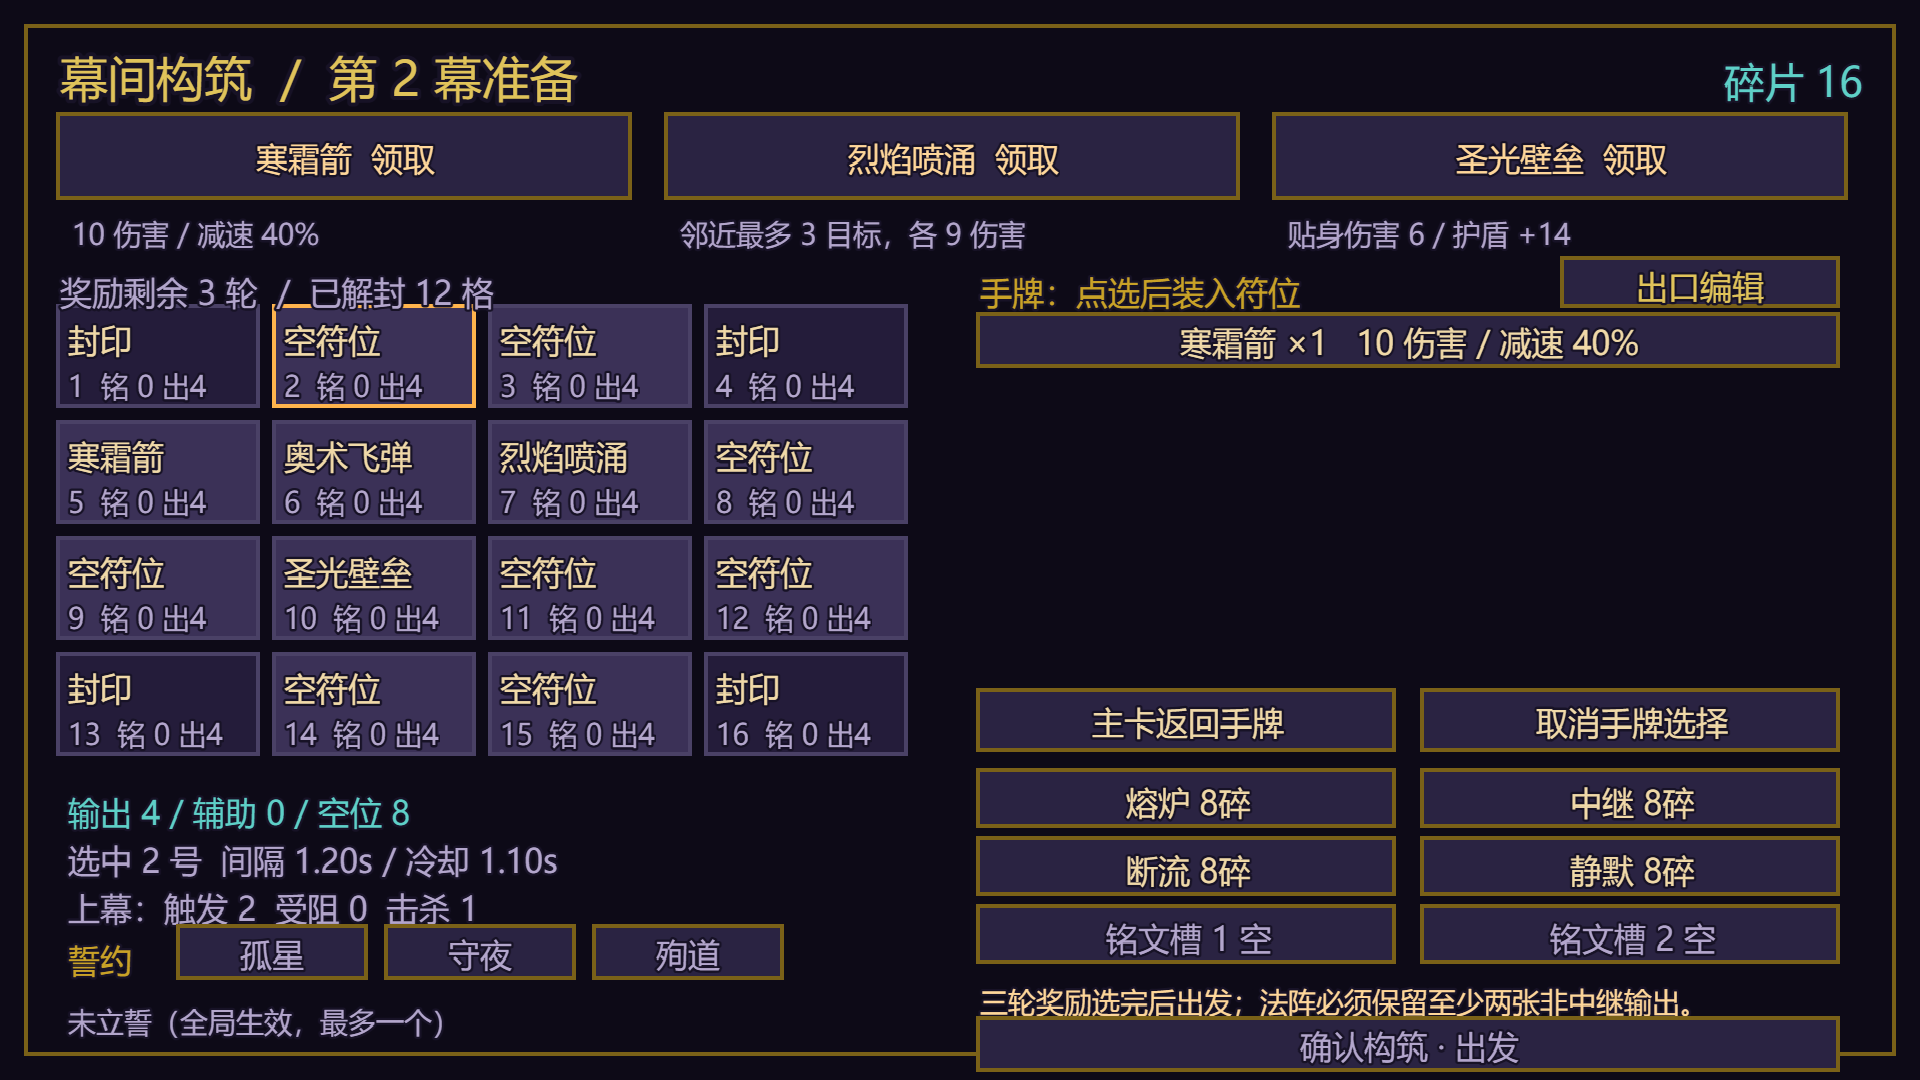
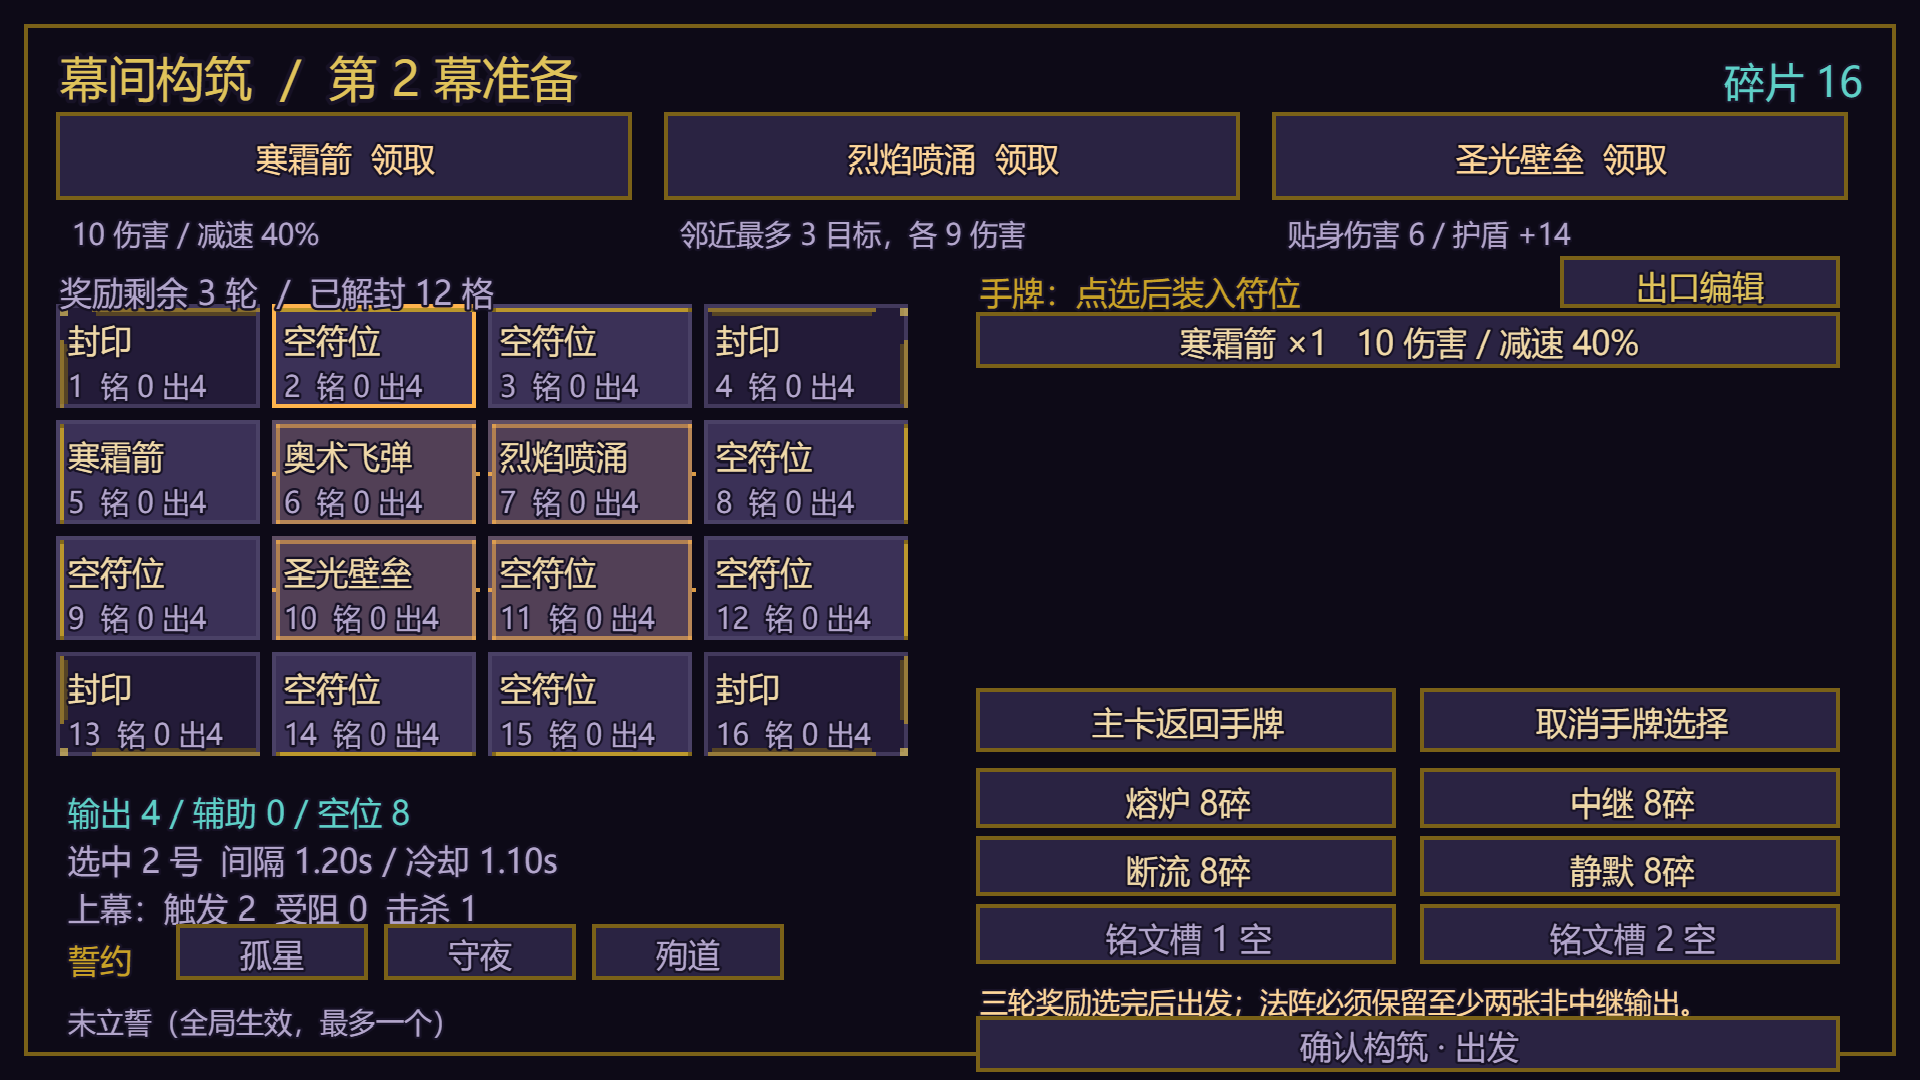
feat: 方阵按区位分三种装饰（角落护角/边上围栏/中心符文）

diff --git a/src/ui/board-decor.js b/src/ui/board-decor.js
@@ -1,0 +1,122 @@
+// 方阵格的区位分类与装饰计划（纯几何，不引用 Phaser，便于单测）。
+// 16 格按位置分三种：角落 4 格、边 8 格、中心 4 格，装饰各不相同：
+//   角落：黄铜护角（两条外边各一段直角包边）+ 一颗铆钉 + 略暗的石面，读作“承重的基座”
+//   边上：单条黄铜栏（只在外侧一边）+ 两端小钉，读作“围栏/门槛”
+//   中心：符文淡染 + 两侧刻点，读作“祭坛核心”，不压符印
+
+import { toRC } from '../logic/grid.js';
+
+export const ZONE = Object.freeze({ CORNER: 'corner', EDGE: 'edge', CENTER: 'center' });
+
+// 非法 id 返回 null，调用方据此跳过装饰而不是猜一个默认值。
+export function cellZone(id) {
+  if (!Number.isInteger(id) || id < 0 || id > 15) return null;
+  const { r, c } = toRC(id);
+  const edgeRow = r === 0 || r === 3;
+  const edgeCol = c === 0 || c === 3;
+  if (edgeRow && edgeCol) return ZONE.CORNER;
+  if (edgeRow || edgeCol) return ZONE.EDGE;
+  return ZONE.CENTER;
+}
+
+// 哪几条边朝向盘面外侧；中心格四条边全在里面，所以都是 false。
+export function outerSides(id) {
+  const zone = cellZone(id);
+  if (!zone) return null;
+  const { r, c } = toRC(id);
+  return {
+    top: r === 0,
+    bottom: r === 3,
+    left: c === 0,
+    right: c === 3,
+    any: r === 0 || r === 3 || c === 0 || c === 3,
+  };
+}
+
+// 把四边形各边向内收进 inset 像素，得到贴着内壁的刻线路径。
+export function insetEdges(quad, inset = 1) {
+  const [tl, tr, br, bl] = quad;
+  return {
+    top: [{ x: tl.x + inset, y: tl.y + inset }, { x: tr.x - inset, y: tr.y + inset }],
+    bottom: [{ x: bl.x + inset, y: bl.y - inset }, { x: br.x - inset, y: br.y - inset }],
+    left: [{ x: tl.x + inset, y: tl.y + inset }, { x: bl.x + inset, y: bl.y - inset }],
+    right: [{ x: tr.x - inset, y: tr.y + inset }, { x: br.x - inset, y: br.y - inset }],
+  };
+}
+
+const lerp = (a, b, t) => ({ x: a.x + (b.x - a.x) * t, y: a.y + (b.y - a.y) * t });
+
+// 生成该格的装饰计划：只描述“画什么”，由调用方用像素 API 落地。
+// opts.inset / arm / stud 可让大盘面（幕间）用更大刻度复用同一份规则。
+export function decoratePlan(id, quad, opts = {}) {
+  const zone = cellZone(id);
+  if (!zone || !Array.isArray(quad) || quad.length !== 4) return null;
+  const inset = opts.inset ?? 1;
+  const arm = opts.arm ?? 3;
+  const sides = outerSides(id);
+  const edges = insetEdges(quad, inset);
+  const lines = [];
+  const dots = [];
+
+  if (zone === ZONE.CENTER) {
+    // 中心：不碰外缘（那是角落/边上的语言），改用内嵌的淡符文方框 + 两侧刻点，读作“祭坛核心”
+    const [tl, tr, br, bl] = quad;
+    // 大盘面文字紧贴格顶，用 centerInset 让符文框让开文字行
+    const inner = insetEdges(quad, opts.centerInset ?? (inset + 1));
+    for (const name of ['top', 'bottom', 'left', 'right']) {
+      lines.push({ a: inner[name][0], b: inner[name][1], color: 'arcane', alpha: 0.55, width: 1 });
+    }
+    return {
+      zone,
+      wash: { quad, color: 'arcane', alpha: 0.12 },
+      lines,
+      dots: [
+        { ...lerp(tl, bl, 0.5), color: 'arcane', alpha: 0.85 },
+        { ...lerp(tr, br, 0.5), color: 'arcane', alpha: 0.85 },
+      ],
+    };
+  }
+
+  // 角落/边：只刻外侧的边；两条外侧边相交处各让出 arm 像素，形成护角而不是整圈边框
+  const trim = (edgeName, a, b) => {
+    const horizontal = edgeName === 'top' || edgeName === 'bottom';
+    const atStart = horizontal ? (edgeName === 'top' ? sides.left : sides.left) : (edgeName === 'left' ? sides.top : sides.top);
+    const atEnd = horizontal ? sides.right : sides.bottom;
+    return [
+      atStart ? lerp(a, b, arm / Math.max(1, Math.hypot(b.x - a.x, b.y - a.y))) : a,
+      atEnd ? lerp(b, a, arm / Math.max(1, Math.hypot(b.x - a.x, b.y - a.y))) : b,
+    ];
+  };
+
+  for (const name of ['top', 'bottom', 'left', 'right']) {
+    if (!sides[name]) continue;
+    const [a, b] = trim(name, edges[name][0], edges[name][1]);
+    lines.push({ a, b, color: 'brass', alpha: 0.9, width: 1 });
+    // 角落格再压一条内线，做成两像素厚的承重护角
+    if (zone === ZONE.CORNER) {
+      const innerEdge = insetEdges(quad, inset + 1)[name];
+      const [ia, ib] = trim(name, innerEdge[0], innerEdge[1]);
+      lines.push({ a: ia, b: ib, color: 'brassDark', alpha: 0.85, width: 1 });
+    }
+  }
+
+  if (zone === ZONE.CORNER) {
+    // 护角铆钉压在最外侧那个角上（2×2，比边上的小钉更重）
+    const [tl, tr, br, bl] = quad;
+    const corner = sides.top ? (sides.left ? tl : tr) : (sides.left ? bl : br);
+    dots.push({
+      x: corner.x + (sides.left ? 1 : -2), y: corner.y + (sides.top ? 1 : -2),
+      color: 'brassLight', alpha: 1, size: 2,
+    });
+    return { zone, wash: { quad, color: 'nightDeep', alpha: 0.26 }, lines, dots };
+  }
+
+  // 边上：栏的两端各一颗小钉
+  for (const name of ['top', 'bottom', 'left', 'right']) {
+    if (!sides[name]) continue;
+    const [a, b] = edges[name];
+    dots.push({ ...a, color: 'brassDark', alpha: 0.85, size: 1 });
+    dots.push({ ...b, color: 'brassDark', alpha: 0.85, size: 1 });
+  }
+  return { zone, wash: null, lines, dots };
+}

diff --git a/tests/board-decor.test.js b/tests/board-decor.test.js
@@ -1,0 +1,93 @@
+import { describe, it, expect } from 'vitest';
+import { ZONE, cellZone, outerSides, insetEdges, decoratePlan } from '../src/ui/board-decor.js';
+
+const square = [{ x: 0, y: 0 }, { x: 30, y: 0 }, { x: 30, y: 12 }, { x: 0, y: 12 }];
+
+describe('方阵区位分类', () => {
+  it('四角 / 八边 / 四心，正好覆盖 16 格', () => {
+    const zones = [];
+    for (let id = 0; id < 16; id++) zones.push(cellZone(id));
+    expect(zones.filter(z => z === ZONE.CORNER)).toHaveLength(4);
+    expect(zones.filter(z => z === ZONE.EDGE)).toHaveLength(8);
+    expect(zones.filter(z => z === ZONE.CENTER)).toHaveLength(4);
+    expect(zones.filter(Boolean)).toHaveLength(16);
+  });
+  it('角落是四个真实角，中心是中间 2×2', () => {
+    expect([0, 3, 12, 15].every(id => cellZone(id) === ZONE.CORNER)).toBe(true);
+    expect([5, 6, 9, 10].every(id => cellZone(id) === ZONE.CENTER)).toBe(true);
+    expect([1, 2, 4, 7, 8, 11, 13, 14].every(id => cellZone(id) === ZONE.EDGE)).toBe(true);
+  });
+  it('非法 id 返回 null 而不是猜一个默认区', () => {
+    for (const bad of [-1, 16, 1.5, NaN, '5', null, undefined]) expect(cellZone(bad)).toBeNull();
+  });
+  it('外侧边方向正确', () => {
+    expect(outerSides(0)).toMatchObject({ top: true, left: true, bottom: false, right: false });
+    expect(outerSides(15)).toMatchObject({ bottom: true, right: true, top: false, left: false });
+    expect(outerSides(1)).toMatchObject({ top: true, left: false, right: false, bottom: false });
+    expect(outerSides(9).any).toBe(false);
+  });
+});
+
+describe('装饰计划', () => {
+  it('角落：两条外边各压两层（护角更厚）+ 一颗铆钉 + 略暗石面', () => {
+    const plan = decoratePlan(0, square);
+    expect(plan.zone).toBe(ZONE.CORNER);
+    // 两条外侧边 × 内外两线
+    expect(plan.lines).toHaveLength(4);
+    expect(plan.dots).toHaveLength(1);
+    expect(plan.dots[0].size).toBe(2);
+    expect(plan.wash).toMatchObject({ color: 'nightDeep' });
+  });
+  it('边上：单条外边 + 两端小钉，不改石面', () => {
+    const plan = decoratePlan(1, square);
+    expect(plan.zone).toBe(ZONE.EDGE);
+    expect(plan.lines).toHaveLength(1);
+    expect(plan.dots).toHaveLength(2);
+    expect(plan.wash).toBeNull();
+  });
+  it('中心：用内嵌符文方框而不是外边，配淡染与两侧刻点', () => {
+    const plan = decoratePlan(5, square);
+    expect(plan.zone).toBe(ZONE.CENTER);
+    // 内框四条边，颜色是符文色而不是黄铜
+    expect(plan.lines).toHaveLength(4);
+    expect(plan.lines.every(l => l.color === 'arcane')).toBe(true);
+    expect(plan.dots).toHaveLength(2);
+    expect(plan.wash).toMatchObject({ color: 'arcane' });
+  });
+  it('三种区位的刻线颜色/数量互不相同，肉眼可分', () => {
+    const corner = decoratePlan(0, square);
+    const edge = decoratePlan(1, square);
+    const center = decoratePlan(5, square);
+    expect(corner.lines.length).toBeGreaterThan(edge.lines.length);
+    expect(center.lines.every(l => l.color === 'arcane')).toBe(true);
+    expect(edge.lines.every(l => l.color === 'brass')).toBe(true);
+    expect(corner.wash.alpha).toBeGreaterThan(edge.wash?.alpha ?? 0);
+  });
+  it('刻线收在格内，不越出四边形', () => {
+    for (let id = 0; id < 16; id++) {
+      const plan = decoratePlan(id, square);
+      for (const line of plan.lines) {
+        for (const p of [line.a, line.b]) {
+          expect(p.x).toBeGreaterThanOrEqual(0);
+          expect(p.x).toBeLessThanOrEqual(30);
+          expect(p.y).toBeGreaterThanOrEqual(0);
+          expect(p.y).toBeLessThanOrEqual(12);
+        }
+      }
+    }
+  });
+  it('护角的刻线在各边相交处让位，不会拼成整圈框', () => {
+    const plan = decoratePlan(0, square, { inset: 1, arm: 4 });
+    const top = plan.lines.find(l => l.a.y === l.b.y);
+    expect(top.a.x).toBeGreaterThan(0); // 起点已被让开
+  });
+  it('inset 越大刻线越靠内，幕间大盘可复用', () => {
+    const small = decoratePlan(1, square, { inset: 1 });
+    const big = decoratePlan(1, square, { inset: 3 });
+    expect(big.lines[0].a.y).toBeGreaterThan(small.lines[0].a.y);
+  });
+  it('四边形非法时返回 null', () => {
+    expect(decoratePlan(0, null)).toBeNull();
+    expect(decoratePlan(0, [{ x: 0, y: 0 }])).toBeNull();
+  });
+});

diff --git a/src/scenes/IntermissionScene.js b/src/scenes/IntermissionScene.js
@@ -1,6 +1,7 @@
 // 幕间工作台独立于战斗：只编辑草稿，出发时一次提交；右下罗盘布局仅用于战斗。
 import Phaser from 'phaser';
-import { C, HEX, addText, pxRect, pxFrame, applyPixelZoom } from '../ui/Palette.js';
+import { C, HEX, addText, pxRect, pxFrame, pxLine, pxPoly, applyPixelZoom } from '../ui/Palette.js';
+import { decoratePlan } from '../ui/board-decor.js';
 import { createGrid } from '../logic/grid.js';
 import { applyDraft, draftFromGrid, unlockToTarget, AUX_TARGETED } from '../logic/build.js';
 import { SIGIL_DEFS, AUX_DEFS, RUNE_DEFS, OATH_DEFS } from '../logic/effects.js';
@@ -161,6 +162,18 @@ export default class IntermissionScene extends Phaser.Scene {
       const selected = id === this.focusCell || id === this.auxPending;
       pxRect(g, x, y, 51, 26, unlocked ? C.stone : C.night);
       pxFrame(g, x, y, 51, 26, selected ? C.arcane : C.stoneLight);
+      // 角落 / 边上 / 中心三种区位装饰，与战斗罗盘同一份规则，只是刻度更大
+      // inset 1 / centerInset 1：装饰线全部压在格内边，避开 8px 名称行与 7px 明细行
+      const plan = decoratePlan(id, [{ x, y }, { x: x + 51, y }, { x: x + 51, y: y + 26 }, { x, y: y + 26 }], { inset: 1, arm: 8, centerInset: 1 });
+      if (plan) {
+        const dim = unlocked ? 1 : 0.7;
+        if (plan.wash) pxPoly(g, plan.wash.quad, C[plan.wash.color], plan.wash.alpha * dim);
+        for (const line of plan.lines) pxLine(g, line.a.x, line.a.y, line.b.x, line.b.y, C[line.color], line.alpha * dim, line.width ?? 1);
+        for (const dot of plan.dots) {
+          const size = dot.size ?? 1;
+          pxRect(g, Math.round(dot.x), Math.round(dot.y), size, size, C[dot.color], dot.alpha * dim);
+        }
+      }
       this.text(x + 2, y + 2, unlocked ? (slot ? names[slot.defId]?.name : '空符位') : '封印', 8, slot?.kind === 'auxiliary' ? HEX.teal : HEX.parchment);
       const runeCount = (w.draft.runes[id] ?? []).filter(Boolean).length;
       const target = w.draft.auxTargets[id];

diff --git a/src/ui/SigilBoard.js b/src/ui/SigilBoard.js
@@ -3,6 +3,7 @@
 import { C, HEX, addText, pxRect, pxFrame, pxLine, pxPoly, pxPolyLine, pxDiamond, pxRing } from './Palette.js';
 import { toRC } from '../logic/grid.js';
 import { cardVisual, sectorLabel } from '../data/roster.js';
+import { decoratePlan } from './board-decor.js';
 
 // 用户修订：地图为主画面，法术罗盘固定右下角，保留紧凑斜置盘面。
 export const BOARD = {
@@ -140,6 +141,8 @@ export default class SigilBoard {
         // 黄铜角钉
         pxRect(g, Math.round(x0 + BOARD.shear + 2), y0 + 2, 1, 1, C.brassLight, 0.9);
         pxRect(g, Math.round(x0 + BOARD.cellW - 3), y0 + BOARD.cellH - 3, 1, 1, C.brass, 0.7);
+        // 区位装饰：角落护角 / 边上围栏 / 中心符文
+        this.paintDecor(g, id, quad, 1);
 
         // 符印图案：8×8 像素，刻在格子中央
         const sigil = cardVisual(cell.slot);
@@ -177,11 +180,27 @@ export default class SigilBoard {
         pxRect(g, cx - 3, cy, 7, 1, C.stoneDark, 0.9);
         pxRect(g, cx, cy - 3, 1, 7, C.stoneDark, 0.9);
         pxDiamond(g, cx, cy, 3, C.stoneDark, 0.75, false);
+        // 封印格也标出区位，只是压暗，让玩家解封前就能看懂盘面结构
+        this.paintDecor(g, id, quad, 0.5);
       }
     }
 
     // 台面外缘的黄铜蚀刻
     pxPolyLine(g, hull, C.brassDark, 0.85, 1, true);
+  }
+
+  // 按区位画装饰：只描述计划，颜色/透明度都在 board-decor 里定好
+  paintDecor(g, id, quad, dim = 1) {
+    const plan = decoratePlan(id, quad, { inset: 1, arm: 3 });
+    if (!plan) return;
+    if (plan.wash) pxPoly(g, plan.wash.quad, C[plan.wash.color], plan.wash.alpha * dim);
+    for (const line of plan.lines) {
+      pxLine(g, line.a.x, line.a.y, line.b.x, line.b.y, C[line.color], line.alpha * dim, line.width ?? 1);
+    }
+    for (const dot of plan.dots) {
+      const s = dot.size ?? 1;
+      pxRect(g, Math.round(dot.x), Math.round(dot.y), s, s, C[dot.color], dot.alpha * dim);
+    }
   }
 
   flash(cellId, kind, dur) {

diff --git a/docs/大地图验收记录.md b/docs/大地图验收记录.md
@@ -32,11 +32,11 @@
 
 ## 3. 自动化结果
 
-- 全量单测：**18 个测试文件、608 项通过**（新增仿真/索敌覆盖与刷怪密度两组）。
+- 全量单测：**19 个测试文件、620 项通过**（含索敌覆盖、刷怪密度与盘面区位装饰三组）。
 - 生产构建：成功（体积见构建输出，Phaser 为主要来源）。
 - 最终浏览器回归：**十二套全部通过，pageerror 为零**；加标准盘与长时压测共 12 项，统一入口输出 `ACCEPTANCE_ALL_PASS 12`，退出码 0。最终原始输出见[验收日志](<大地图验收日志.txt>)。
-- 120 秒高负载（本轮按 2× 画布 960×540 测）：采样 28,678 帧，模拟时钟推进 120,007.54 ms，结束时仍为 play；150 敌 / 296 弹丸 / 200 碎片，显示对象 666。帧间隔 p50 4.2 ms、p95 4.3 ms、p99 4.8 ms、单帧最大 36.7 ms（headless Edge 软件渲染口径，像素量是旧 480×270 的 4 倍，绝对值偏悲观，不等于真机 FPS）。
-- 对象池：弹丸创建不超过 300、复用 83,808 次；碎片创建不超过 200、复用 10 次。压力下容量拒绝计数分别 11 / 1,809，明确保留统计，不宣称零饱和。连续五次重开均回到 0 敌 / 1 弹丸 / 0 碎片 / 44 显示对象。
+- 120 秒高负载（本轮按 2× 画布 960×540 测）：采样 28,594 帧，模拟时钟推进 120,011.74 ms，结束时仍为 play；149 敌 / 295 弹丸 / 200 碎片，显示对象 665。帧间隔 p50 4.2 ms、p95 4.3 ms、p99 4.6 ms、单帧最大 42.7 ms（headless Edge 软件渲染口径，像素量是旧 480×270 的 4 倍，绝对值偏悲观，不等于真机 FPS）。
+- 对象池：弹丸创建不超过 300、复用 83,832 次；碎片创建不超过 200、复用 10 次。压力下容量拒绝计数分别 11 / 1,912，明确保留统计，不宣称零饱和。连续五次重开均回到 0 敌 / 1 弹丸 / 0 碎片 / 44 显示对象。
 - 文档相对链接检查：缺失链接 0；最终提交前再次执行。
 - 统一入口：[acceptance.mjs](<../scripts/acceptance.mjs>)，包含原七套回归（布局、工作台、问答双路径、三幕、成长、开局套装、帮助）加上暂停编辑、奖励接线、索敌与拥挤三套，共十套浏览器回归，另加标准盘仿真及 120 秒压测。任何一项失败即非零退出。视觉核查辅助脚本：[文字与布局截图](<../scripts/text-shot.mjs>)、[其余场景截图](<../scripts/scene-shot.mjs>)、[敌人分布探针](<../scripts/battle-shot.mjs>)。
 
@@ -91,6 +91,18 @@ node scripts/check-docs.mjs
 | 怪堆在一起 | 旧落点环只有 60px 宽、无间距检查，全部朝玩家直冲 | 同屏上限 7→22 提升到 9→26；落点环加宽到 230–430 且要求与已有敌人 ≥36px，取不到就退回“最不拥挤”的候选点；逐帧轻量分离 gap 24（超过 48 只时跳过，避免压测 O(n²)）。实测 26 只时最近间距 45px，与玩家距离 190–413px |
 
 相关单测：[索敌与刷怪](<../tests/logic.test.js>)、[落点与分离](<../tests/spawn.test.js>)、[HUD](<../tests/hud.test.js>)。
+
+### 方阵区位装饰（本轮新增）
+
+16 格按位置分三种装饰，战斗罗盘与幕间大盘共用同一份规则（[board-decor.js](<../src/ui/board-decor.js>)）：
+
+| 区位 | 格号（1 起） | 装饰 |
+| --- | --- | --- |
+| 角落 ×4 | 1 / 4 / 13 / 16 | 两条外侧边各压内外两线形成黄铜护角，外角一颗 2×2 铆钉，石面略暗 |
+| 边上 ×8 | 2 / 3 / 5 / 8 / 9 / 12 / 14 / 15 | 只有外侧一边画单条黄铜围栏，两端各一颗小钉 |
+| 中心 ×4 | 6 / 7 / 10 / 11 | 内嵌符文方框（紫色）+ 淡染 + 两侧刻点，不碰外缘 |
+
+约束与验证：装饰纯视觉，不改任何数值、索敌或冷却；工厂函数 `decoratePlan` 只产出几何计划（线段/点/染色），由盘面用像素 API 落地，因此可在 Node 里单测。12 项单测覆盖：三区位数量（4/8/4）、非法 id 返回 null、外侧方向、刻线不越出格、护角让位不拼成整圈框、`inset` 刻度可放大复用。幕间大盘用 `inset 1 / centerInset 1` 让线压在格内边，避开 8px 名称行与 7px 明细行。截图：[罗盘放大](<board-decor.png>)、[幕间大盘](<text-intermission-1920.png>)。
 
 ### 其它顺带修正
 

diff --git a/docs/规则契约.md b/docs/规则契约.md
@@ -82,6 +82,7 @@
 - 每格攻击本区域内最近的敌人；同距按实体 id 升序。
 - 区域为空时朝该区域参考点补射最近的敌人（标记 assisted），一个敌人都没有才朝参考点空射。外区参考点取屏幕外一侧一屏多的位置（±480 / ±270），保证空射方向正确。
 - 面板法阵是固定右下角的 HUD，不是地图地形；伤害与索敌采用世界坐标，摄像机移动不改变角色相对方位规则。
+- 盘面 16 格按区位分三种装饰，纯视觉、不改任何数值：**角落 4 格**（黄铜护角 + 铆钉 + 略暗石面）、**边上 8 格**（外侧单条黄铜围栏 + 两端小钉）、**中心 4 格**（内嵌符文方框 + 淡染 + 两侧刻点）。契约里只约束“区位可辨、不遮挡符印与文字”；具体形状可迭代。
 
 ## 4. 联组
 

diff --git a/docs/交付说明.md b/docs/交付说明.md
@@ -37,6 +37,8 @@
 | 暂停菜单内 E | 打开法阵编辑，点选手牌再点格子放置；手牌五项一页、左右箭头切页 |
 | 暂停菜单内 R / T | 重开本局 / 返回标题 |
 | M | 合成音效开关 |
+
+法阵盘面（战斗右下角罗盘与幕间编辑台）用同一套区位装饰帮助读盘：**角落 4 格**是黄铜护角 + 铆钉、**边上 8 格**是外侧单条黄铜围栏、**中心 4 格**是紫色符文方框。纯视觉，不影响数值与索敌。
 | H | 标题页查看/关闭玩法说明 |
 | 升级时 1/2/3 或点卡 | 三选一，卡牌进入手牌 |
 | 鼠标 | 幕间构筑、辅助目标绑定、出口编辑、出发，及问答选择/确认 |
